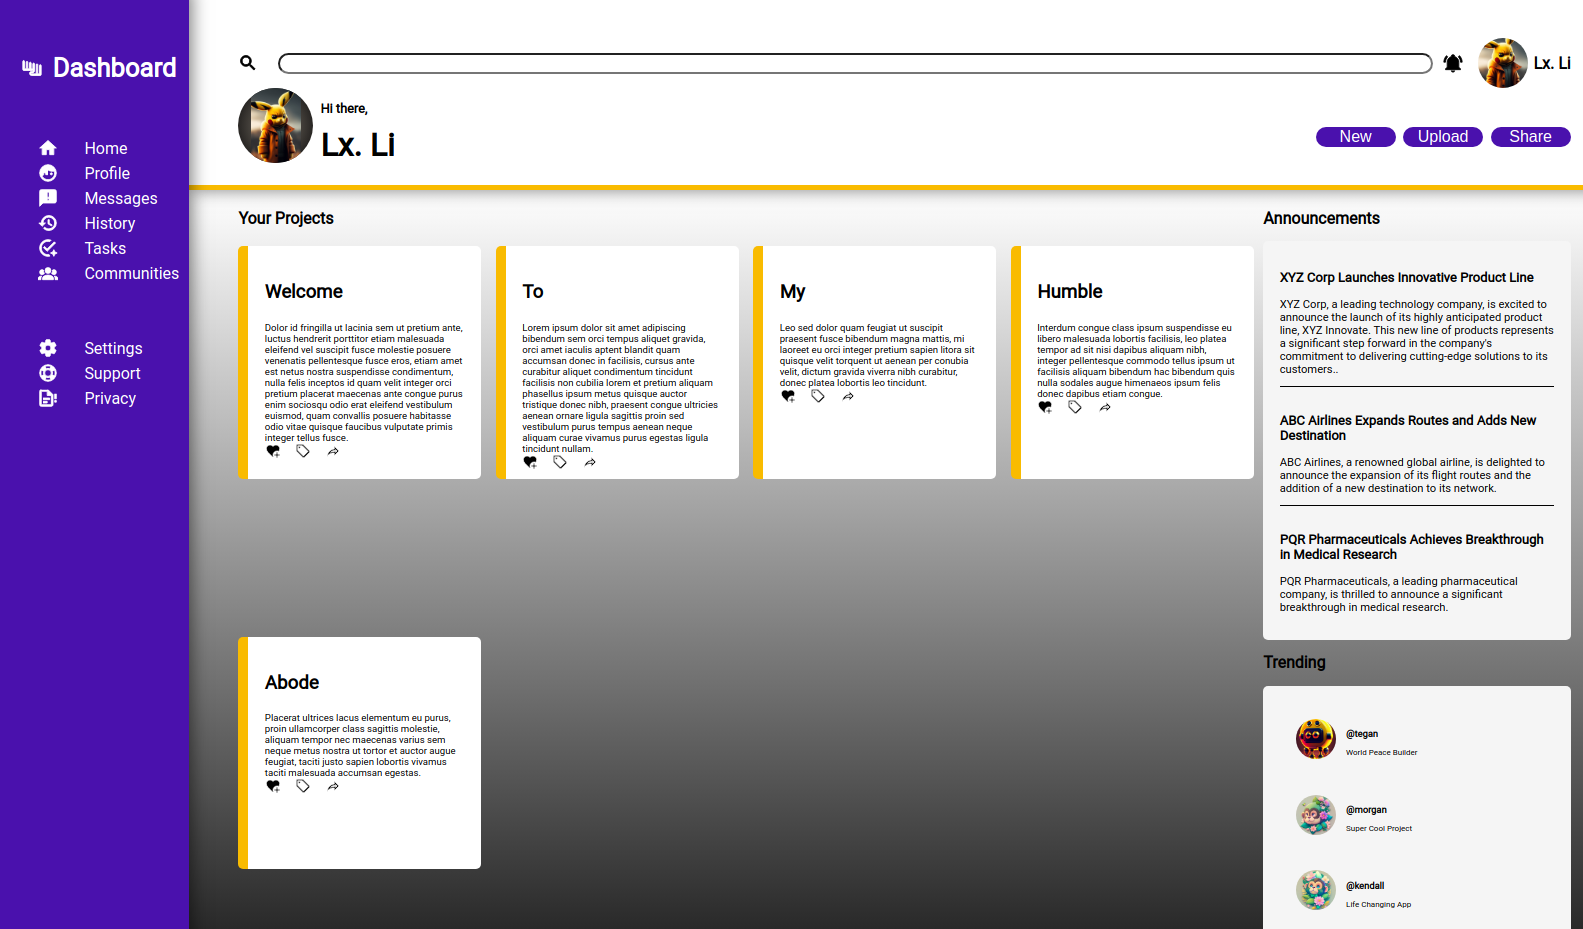
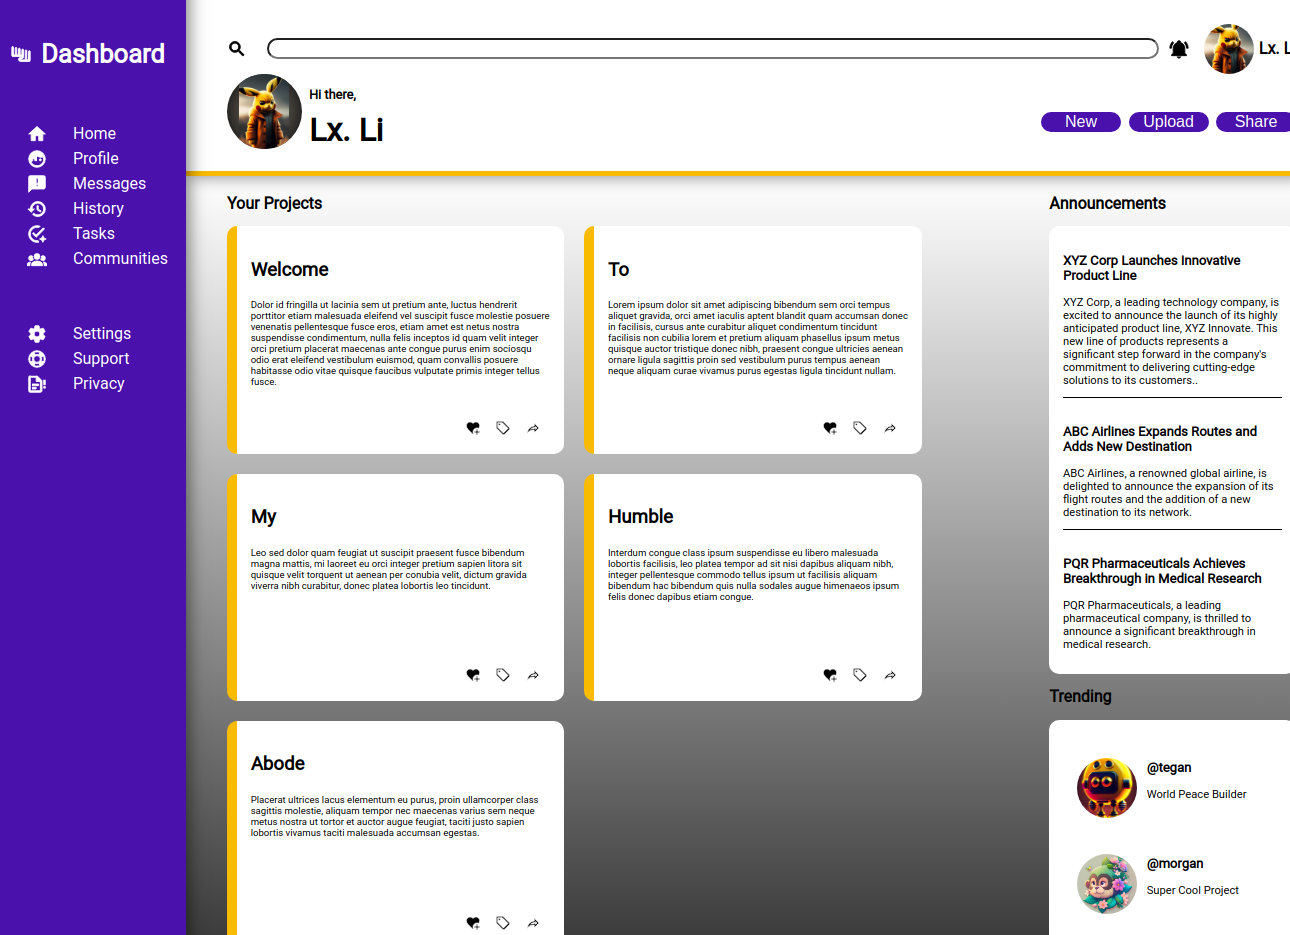
Alignment cleaning

diff --git a/index.html b/index.html
@@ -53,40 +53,52 @@
 <div class="main">
     <div class="projects">
         <h2>Your Projects</h2>
-        <div class="card">
-            <h3>Welcome</h3>
-            <p>Dolor id fringilla ut lacinia sem ut pretium ante, luctus hendrerit porttitor etiam malesuada eleifend vel suscipit fusce molestie posuere venenatis pellentesque fusce eros, etiam amet est netus nostra suspendisse condimentum, nulla felis inceptos id quam velit integer orci pretium placerat maecenas ante congue purus enim sociosqu odio erat eleifend vestibulum euismod, quam convallis posuere habitasse odio vitae quisque faucibus vulputate primis integer tellus fusce.</p>
-            <svg xmlns="http://www.w3.org/2000/svg" viewBox="0 0 24 24"><title>heart-plus</title><path d="M12 18C12 19 12.25 19.92 12.67 20.74L12 21.35L10.55 20.03C5.4 15.36 2 12.27 2 8.5C2 5.41 4.42 3 7.5 3C9.24 3 10.91 3.81 12 5.08C13.09 3.81 14.76 3 16.5 3C19.58 3 22 5.41 22 8.5C22 9.93 21.5 11.26 20.62 12.61C19.83 12.23 18.94 12 18 12C14.69 12 12 14.69 12 18M19 14H17V17H14V19H17V22H19V19H22V17H19V14Z" /></svg>
-            <svg xmlns="http://www.w3.org/2000/svg" viewBox="0 0 24 24"><title>tag-outline</title><path d="M21.41 11.58L12.41 2.58A2 2 0 0 0 11 2H4A2 2 0 0 0 2 4V11A2 2 0 0 0 2.59 12.42L11.59 21.42A2 2 0 0 0 13 22A2 2 0 0 0 14.41 21.41L21.41 14.41A2 2 0 0 0 22 13A2 2 0 0 0 21.41 11.58M13 20L4 11V4H11L20 13M6.5 5A1.5 1.5 0 1 1 5 6.5A1.5 1.5 0 0 1 6.5 5Z" /></svg>
-            <svg xmlns="http://www.w3.org/2000/svg" viewBox="0 0 24 24"><title>share-outline</title><path d="M14,5V9C7,10 4,15 3,20C5.5,16.5 9,14.9 14,14.9V19L21,12L14,5M16,9.83L18.17,12L16,14.17V12.9H14C11.93,12.9 10.07,13.28 8.34,13.85C9.74,12.46 11.54,11.37 14.28,11L16,10.73V9.83Z" /></svg>
-        </div>
-        <div class="card">
-            <h3>To</h3>
-            <p><p>Lorem ipsum dolor sit amet adipiscing bibendum sem orci tempus aliquet gravida, orci amet iaculis aptent blandit quam accumsan donec in facilisis, cursus ante curabitur aliquet condimentum tincidunt facilisis non cubilia lorem et pretium aliquam phasellus ipsum metus quisque auctor tristique donec nibh, praesent congue ultricies aenean ornare ligula sagittis proin sed vestibulum purus tempus aenean neque aliquam curae vivamus purus egestas ligula tincidunt nullam.</p>
-        </p>
-        <svg xmlns="http://www.w3.org/2000/svg" viewBox="0 0 24 24"><title>heart-plus</title><path d="M12 18C12 19 12.25 19.92 12.67 20.74L12 21.35L10.55 20.03C5.4 15.36 2 12.27 2 8.5C2 5.41 4.42 3 7.5 3C9.24 3 10.91 3.81 12 5.08C13.09 3.81 14.76 3 16.5 3C19.58 3 22 5.41 22 8.5C22 9.93 21.5 11.26 20.62 12.61C19.83 12.23 18.94 12 18 12C14.69 12 12 14.69 12 18M19 14H17V17H14V19H17V22H19V19H22V17H19V14Z" /></svg>
-        <svg xmlns="http://www.w3.org/2000/svg" viewBox="0 0 24 24"><title>tag-outline</title><path d="M21.41 11.58L12.41 2.58A2 2 0 0 0 11 2H4A2 2 0 0 0 2 4V11A2 2 0 0 0 2.59 12.42L11.59 21.42A2 2 0 0 0 13 22A2 2 0 0 0 14.41 21.41L21.41 14.41A2 2 0 0 0 22 13A2 2 0 0 0 21.41 11.58M13 20L4 11V4H11L20 13M6.5 5A1.5 1.5 0 1 1 5 6.5A1.5 1.5 0 0 1 6.5 5Z" /></svg>
-        <svg xmlns="http://www.w3.org/2000/svg" viewBox="0 0 24 24"><title>share-outline</title><path d="M14,5V9C7,10 4,15 3,20C5.5,16.5 9,14.9 14,14.9V19L21,12L14,5M16,9.83L18.17,12L16,14.17V12.9H14C11.93,12.9 10.07,13.28 8.34,13.85C9.74,12.46 11.54,11.37 14.28,11L16,10.73V9.83Z" /></svg>        </div>
-        <div class="card">
-            <h3>My</h3>
-            <p><p>Leo sed dolor quam feugiat ut suscipit praesent fusce bibendum magna mattis, mi laoreet eu orci integer pretium sapien litora sit quisque velit torquent ut aenean per conubia velit, dictum gravida viverra nibh curabitur, donec platea lobortis leo tincidunt.</p>
-        </p> <svg xmlns="http://www.w3.org/2000/svg" viewBox="0 0 24 24"><title>heart-plus</title><path d="M12 18C12 19 12.25 19.92 12.67 20.74L12 21.35L10.55 20.03C5.4 15.36 2 12.27 2 8.5C2 5.41 4.42 3 7.5 3C9.24 3 10.91 3.81 12 5.08C13.09 3.81 14.76 3 16.5 3C19.58 3 22 5.41 22 8.5C22 9.93 21.5 11.26 20.62 12.61C19.83 12.23 18.94 12 18 12C14.69 12 12 14.69 12 18M19 14H17V17H14V19H17V22H19V19H22V17H19V14Z" /></svg>
-            <svg xmlns="http://www.w3.org/2000/svg" viewBox="0 0 24 24"><title>tag-outline</title><path d="M21.41 11.58L12.41 2.58A2 2 0 0 0 11 2H4A2 2 0 0 0 2 4V11A2 2 0 0 0 2.59 12.42L11.59 21.42A2 2 0 0 0 13 22A2 2 0 0 0 14.41 21.41L21.41 14.41A2 2 0 0 0 22 13A2 2 0 0 0 21.41 11.58M13 20L4 11V4H11L20 13M6.5 5A1.5 1.5 0 1 1 5 6.5A1.5 1.5 0 0 1 6.5 5Z" /></svg>
-            <svg xmlns="http://www.w3.org/2000/svg" viewBox="0 0 24 24"><title>share-outline</title><path d="M14,5V9C7,10 4,15 3,20C5.5,16.5 9,14.9 14,14.9V19L21,12L14,5M16,9.83L18.17,12L16,14.17V12.9H14C11.93,12.9 10.07,13.28 8.34,13.85C9.74,12.46 11.54,11.37 14.28,11L16,10.73V9.83Z" /></svg>
-        </div>
-        <div class="card">
-            <h3>Humble</h3>
-            <p><p>Interdum congue class ipsum suspendisse eu libero malesuada lobortis facilisis, leo platea tempor ad sit nisi dapibus aliquam nibh, integer pellentesque commodo tellus ipsum ut facilisis aliquam bibendum hac bibendum quis nulla sodales augue himenaeos ipsum felis donec dapibus etiam congue.</p>
-        </p> <svg xmlns="http://www.w3.org/2000/svg" viewBox="0 0 24 24"><title>heart-plus</title><path d="M12 18C12 19 12.25 19.92 12.67 20.74L12 21.35L10.55 20.03C5.4 15.36 2 12.27 2 8.5C2 5.41 4.42 3 7.5 3C9.24 3 10.91 3.81 12 5.08C13.09 3.81 14.76 3 16.5 3C19.58 3 22 5.41 22 8.5C22 9.93 21.5 11.26 20.62 12.61C19.83 12.23 18.94 12 18 12C14.69 12 12 14.69 12 18M19 14H17V17H14V19H17V22H19V19H22V17H19V14Z" /></svg>
-            <svg xmlns="http://www.w3.org/2000/svg" viewBox="0 0 24 24"><title>tag-outline</title><path d="M21.41 11.58L12.41 2.58A2 2 0 0 0 11 2H4A2 2 0 0 0 2 4V11A2 2 0 0 0 2.59 12.42L11.59 21.42A2 2 0 0 0 13 22A2 2 0 0 0 14.41 21.41L21.41 14.41A2 2 0 0 0 22 13A2 2 0 0 0 21.41 11.58M13 20L4 11V4H11L20 13M6.5 5A1.5 1.5 0 1 1 5 6.5A1.5 1.5 0 0 1 6.5 5Z" /></svg>
-            <svg xmlns="http://www.w3.org/2000/svg" viewBox="0 0 24 24"><title>share-outline</title><path d="M14,5V9C7,10 4,15 3,20C5.5,16.5 9,14.9 14,14.9V19L21,12L14,5M16,9.83L18.17,12L16,14.17V12.9H14C11.93,12.9 10.07,13.28 8.34,13.85C9.74,12.46 11.54,11.37 14.28,11L16,10.73V9.83Z" /></svg>
-        </div>
-        <div class="card">
-            <h3>Abode</h3>
-            <p><p>Placerat ultrices lacus elementum eu purus, proin ullamcorper class sagittis molestie, aliquam tempor nec maecenas varius sem neque metus nostra ut tortor et auctor augue feugiat, taciti justo sapien lobortis vivamus taciti malesuada accumsan egestas.</p>
-        </p> <svg xmlns="http://www.w3.org/2000/svg" viewBox="0 0 24 24"><title>heart-plus</title><path d="M12 18C12 19 12.25 19.92 12.67 20.74L12 21.35L10.55 20.03C5.4 15.36 2 12.27 2 8.5C2 5.41 4.42 3 7.5 3C9.24 3 10.91 3.81 12 5.08C13.09 3.81 14.76 3 16.5 3C19.58 3 22 5.41 22 8.5C22 9.93 21.5 11.26 20.62 12.61C19.83 12.23 18.94 12 18 12C14.69 12 12 14.69 12 18M19 14H17V17H14V19H17V22H19V19H22V17H19V14Z" /></svg>
-            <svg xmlns="http://www.w3.org/2000/svg" viewBox="0 0 24 24"><title>tag-outline</title><path d="M21.41 11.58L12.41 2.58A2 2 0 0 0 11 2H4A2 2 0 0 0 2 4V11A2 2 0 0 0 2.59 12.42L11.59 21.42A2 2 0 0 0 13 22A2 2 0 0 0 14.41 21.41L21.41 14.41A2 2 0 0 0 22 13A2 2 0 0 0 21.41 11.58M13 20L4 11V4H11L20 13M6.5 5A1.5 1.5 0 1 1 5 6.5A1.5 1.5 0 0 1 6.5 5Z" /></svg>
-            <svg xmlns="http://www.w3.org/2000/svg" viewBox="0 0 24 24"><title>share-outline</title><path d="M14,5V9C7,10 4,15 3,20C5.5,16.5 9,14.9 14,14.9V19L21,12L14,5M16,9.83L18.17,12L16,14.17V12.9H14C11.93,12.9 10.07,13.28 8.34,13.85C9.74,12.46 11.54,11.37 14.28,11L16,10.73V9.83Z" /></svg>
+        <div class="card-container">
+            <div class="card">
+                <h3>Welcome</h3>
+                <p><p>Dolor id fringilla ut lacinia sem ut pretium ante, luctus hendrerit porttitor etiam malesuada eleifend vel suscipit fusce molestie posuere venenatis pellentesque fusce eros, etiam amet est netus nostra suspendisse condimentum, nulla felis inceptos id quam velit integer orci pretium placerat maecenas ante congue purus enim sociosqu odio erat eleifend vestibulum euismod, quam convallis posuere habitasse odio vitae quisque faucibus vulputate primis integer tellus fusce.</p></p>
+                <div class="links">
+                    <svg xmlns="http://www.w3.org/2000/svg" viewBox="0 0 24 24"><title>heart-plus</title><path d="M12 18C12 19 12.25 19.92 12.67 20.74L12 21.35L10.55 20.03C5.4 15.36 2 12.27 2 8.5C2 5.41 4.42 3 7.5 3C9.24 3 10.91 3.81 12 5.08C13.09 3.81 14.76 3 16.5 3C19.58 3 22 5.41 22 8.5C22 9.93 21.5 11.26 20.62 12.61C19.83 12.23 18.94 12 18 12C14.69 12 12 14.69 12 18M19 14H17V17H14V19H17V22H19V19H22V17H19V14Z" /></svg>
+                    <svg xmlns="http://www.w3.org/2000/svg" viewBox="0 0 24 24"><title>tag-outline</title><path d="M21.41 11.58L12.41 2.58A2 2 0 0 0 11 2H4A2 2 0 0 0 2 4V11A2 2 0 0 0 2.59 12.42L11.59 21.42A2 2 0 0 0 13 22A2 2 0 0 0 14.41 21.41L21.41 14.41A2 2 0 0 0 22 13A2 2 0 0 0 21.41 11.58M13 20L4 11V4H11L20 13M6.5 5A1.5 1.5 0 1 1 5 6.5A1.5 1.5 0 0 1 6.5 5Z" /></svg>
+                    <svg xmlns="http://www.w3.org/2000/svg" viewBox="0 0 24 24"><title>share-outline</title><path d="M14,5V9C7,10 4,15 3,20C5.5,16.5 9,14.9 14,14.9V19L21,12L14,5M16,9.83L18.17,12L16,14.17V12.9H14C11.93,12.9 10.07,13.28 8.34,13.85C9.74,12.46 11.54,11.37 14.28,11L16,10.73V9.83Z" /></svg>
+                </div>
+            </div>
+            <div class="card">
+                <h3>To</h3>
+                <p><p>Lorem ipsum dolor sit amet adipiscing bibendum sem orci tempus aliquet gravida, orci amet iaculis aptent blandit quam accumsan donec in facilisis, cursus ante curabitur aliquet condimentum tincidunt facilisis non cubilia lorem et pretium aliquam phasellus ipsum metus quisque auctor tristique donec nibh, praesent congue ultricies aenean ornare ligula sagittis proin sed vestibulum purus tempus aenean neque aliquam curae vivamus purus egestas ligula tincidunt nullam.</p>
+            </p>
+            <div class="links">
+                <svg xmlns="http://www.w3.org/2000/svg" viewBox="0 0 24 24"><title>heart-plus</title><path d="M12 18C12 19 12.25 19.92 12.67 20.74L12 21.35L10.55 20.03C5.4 15.36 2 12.27 2 8.5C2 5.41 4.42 3 7.5 3C9.24 3 10.91 3.81 12 5.08C13.09 3.81 14.76 3 16.5 3C19.58 3 22 5.41 22 8.5C22 9.93 21.5 11.26 20.62 12.61C19.83 12.23 18.94 12 18 12C14.69 12 12 14.69 12 18M19 14H17V17H14V19H17V22H19V19H22V17H19V14Z" /></svg>
+                <svg xmlns="http://www.w3.org/2000/svg" viewBox="0 0 24 24"><title>tag-outline</title><path d="M21.41 11.58L12.41 2.58A2 2 0 0 0 11 2H4A2 2 0 0 0 2 4V11A2 2 0 0 0 2.59 12.42L11.59 21.42A2 2 0 0 0 13 22A2 2 0 0 0 14.41 21.41L21.41 14.41A2 2 0 0 0 22 13A2 2 0 0 0 21.41 11.58M13 20L4 11V4H11L20 13M6.5 5A1.5 1.5 0 1 1 5 6.5A1.5 1.5 0 0 1 6.5 5Z" /></svg>
+                <svg xmlns="http://www.w3.org/2000/svg" viewBox="0 0 24 24"><title>share-outline</title><path d="M14,5V9C7,10 4,15 3,20C5.5,16.5 9,14.9 14,14.9V19L21,12L14,5M16,9.83L18.17,12L16,14.17V12.9H14C11.93,12.9 10.07,13.28 8.34,13.85C9.74,12.46 11.54,11.37 14.28,11L16,10.73V9.83Z" /></svg>
+            </div>       </div>
+            <div class="card">
+                <h3>My</h3>
+                <p><p>Leo sed dolor quam feugiat ut suscipit praesent fusce bibendum magna mattis, mi laoreet eu orci integer pretium sapien litora sit quisque velit torquent ut aenean per conubia velit, dictum gravida viverra nibh curabitur, donec platea lobortis leo tincidunt.</p>
+            </p>                 <div class="links">
+                <svg xmlns="http://www.w3.org/2000/svg" viewBox="0 0 24 24"><title>heart-plus</title><path d="M12 18C12 19 12.25 19.92 12.67 20.74L12 21.35L10.55 20.03C5.4 15.36 2 12.27 2 8.5C2 5.41 4.42 3 7.5 3C9.24 3 10.91 3.81 12 5.08C13.09 3.81 14.76 3 16.5 3C19.58 3 22 5.41 22 8.5C22 9.93 21.5 11.26 20.62 12.61C19.83 12.23 18.94 12 18 12C14.69 12 12 14.69 12 18M19 14H17V17H14V19H17V22H19V19H22V17H19V14Z" /></svg>
+                <svg xmlns="http://www.w3.org/2000/svg" viewBox="0 0 24 24"><title>tag-outline</title><path d="M21.41 11.58L12.41 2.58A2 2 0 0 0 11 2H4A2 2 0 0 0 2 4V11A2 2 0 0 0 2.59 12.42L11.59 21.42A2 2 0 0 0 13 22A2 2 0 0 0 14.41 21.41L21.41 14.41A2 2 0 0 0 22 13A2 2 0 0 0 21.41 11.58M13 20L4 11V4H11L20 13M6.5 5A1.5 1.5 0 1 1 5 6.5A1.5 1.5 0 0 1 6.5 5Z" /></svg>
+                <svg xmlns="http://www.w3.org/2000/svg" viewBox="0 0 24 24"><title>share-outline</title><path d="M14,5V9C7,10 4,15 3,20C5.5,16.5 9,14.9 14,14.9V19L21,12L14,5M16,9.83L18.17,12L16,14.17V12.9H14C11.93,12.9 10.07,13.28 8.34,13.85C9.74,12.46 11.54,11.37 14.28,11L16,10.73V9.83Z" /></svg>
+            </div>
+            </div>
+            <div class="card">
+                <h3>Humble</h3>
+                <p><p>Interdum congue class ipsum suspendisse eu libero malesuada lobortis facilisis, leo platea tempor ad sit nisi dapibus aliquam nibh, integer pellentesque commodo tellus ipsum ut facilisis aliquam bibendum hac bibendum quis nulla sodales augue himenaeos ipsum felis donec dapibus etiam congue.</p>
+            </p>                 <div class="links">
+                <svg xmlns="http://www.w3.org/2000/svg" viewBox="0 0 24 24"><title>heart-plus</title><path d="M12 18C12 19 12.25 19.92 12.67 20.74L12 21.35L10.55 20.03C5.4 15.36 2 12.27 2 8.5C2 5.41 4.42 3 7.5 3C9.24 3 10.91 3.81 12 5.08C13.09 3.81 14.76 3 16.5 3C19.58 3 22 5.41 22 8.5C22 9.93 21.5 11.26 20.62 12.61C19.83 12.23 18.94 12 18 12C14.69 12 12 14.69 12 18M19 14H17V17H14V19H17V22H19V19H22V17H19V14Z" /></svg>
+                <svg xmlns="http://www.w3.org/2000/svg" viewBox="0 0 24 24"><title>tag-outline</title><path d="M21.41 11.58L12.41 2.58A2 2 0 0 0 11 2H4A2 2 0 0 0 2 4V11A2 2 0 0 0 2.59 12.42L11.59 21.42A2 2 0 0 0 13 22A2 2 0 0 0 14.41 21.41L21.41 14.41A2 2 0 0 0 22 13A2 2 0 0 0 21.41 11.58M13 20L4 11V4H11L20 13M6.5 5A1.5 1.5 0 1 1 5 6.5A1.5 1.5 0 0 1 6.5 5Z" /></svg>
+                <svg xmlns="http://www.w3.org/2000/svg" viewBox="0 0 24 24"><title>share-outline</title><path d="M14,5V9C7,10 4,15 3,20C5.5,16.5 9,14.9 14,14.9V19L21,12L14,5M16,9.83L18.17,12L16,14.17V12.9H14C11.93,12.9 10.07,13.28 8.34,13.85C9.74,12.46 11.54,11.37 14.28,11L16,10.73V9.83Z" /></svg>
+            </div>
+            </div>
+            <div class="card">
+                <h3>Abode</h3>
+                <p><p>Placerat ultrices lacus elementum eu purus, proin ullamcorper class sagittis molestie, aliquam tempor nec maecenas varius sem neque metus nostra ut tortor et auctor augue feugiat, taciti justo sapien lobortis vivamus taciti malesuada accumsan egestas.</p>
+            </p>                 <div class="links">
+                <svg xmlns="http://www.w3.org/2000/svg" viewBox="0 0 24 24"><title>heart-plus</title><path d="M12 18C12 19 12.25 19.92 12.67 20.74L12 21.35L10.55 20.03C5.4 15.36 2 12.27 2 8.5C2 5.41 4.42 3 7.5 3C9.24 3 10.91 3.81 12 5.08C13.09 3.81 14.76 3 16.5 3C19.58 3 22 5.41 22 8.5C22 9.93 21.5 11.26 20.62 12.61C19.83 12.23 18.94 12 18 12C14.69 12 12 14.69 12 18M19 14H17V17H14V19H17V22H19V19H22V17H19V14Z" /></svg>
+                <svg xmlns="http://www.w3.org/2000/svg" viewBox="0 0 24 24"><title>tag-outline</title><path d="M21.41 11.58L12.41 2.58A2 2 0 0 0 11 2H4A2 2 0 0 0 2 4V11A2 2 0 0 0 2.59 12.42L11.59 21.42A2 2 0 0 0 13 22A2 2 0 0 0 14.41 21.41L21.41 14.41A2 2 0 0 0 22 13A2 2 0 0 0 21.41 11.58M13 20L4 11V4H11L20 13M6.5 5A1.5 1.5 0 1 1 5 6.5A1.5 1.5 0 0 1 6.5 5Z" /></svg>
+                <svg xmlns="http://www.w3.org/2000/svg" viewBox="0 0 24 24"><title>share-outline</title><path d="M14,5V9C7,10 4,15 3,20C5.5,16.5 9,14.9 14,14.9V19L21,12L14,5M16,9.83L18.17,12L16,14.17V12.9H14C11.93,12.9 10.07,13.28 8.34,13.85C9.74,12.46 11.54,11.37 14.28,11L16,10.73V9.83Z" /></svg>
+            </div>
+            </div>
         </div>
     </div>
     <div class="announcements">

diff --git a/styles.css b/styles.css
@@ -231,27 +231,33 @@ grid-template-rows: min-content 1fr;
     padding-top:5px;    
 }
 .main > .projects{
-    display: grid;
     grid-area: projects;
-    grid-template-columns:repeat(auto-fit, minmax(210px,1fr));
-    grid-template-rows: min-content auto;
-    gap: 5px;
-    padding-top: -20px;
 }
-.main > .projects > h2{
+
+.projects > .card-container{
+    display: grid;
+    grid-template-columns:repeat(auto-fill, minmax(320px,max-content));
+    gap: 20px;
+    padding-top: -20px;
+    margin-right: 20px;
+
+}
+.main > .projects h2{
     grid-column: 1/ -1;
     text-align: start;
 }
 .main > .announcements{
-    display: grid;
-    grid-area: announcements;
-    grid-template-columns: 1fr;
-    font-size: 0.7rem;
+       grid-area: announcements;
+
 }
 .block{
-    background-color: whitesmoke;
+ 
+    display: grid;
+    grid-template-columns: 1fr;
+    font-size: 0.7rem;
+    background-color: white;
     padding: 1vw;
-    border-radius: 5px;
+    border-radius: 10px;
 }
 
 .block > p {
@@ -264,11 +270,11 @@ grid-template-rows: min-content 1fr;
 .main > .trending{
     display: grid;
     grid-area: trending;    grid-template-columns: 1fr;
-    font-size: 0.5rem;
+    font-size: 0.8rem;
 }
 .people{
     display: grid;
-    grid-template-columns: 50px 1fr;
+    grid-template-columns: 70px 1fr;
     grid-template-rows: 1fr 1fr;
     padding-left: 1vw;
     padding-top: 1vw;
@@ -276,22 +282,24 @@ grid-template-rows: min-content 1fr;
 .people p {
 }
 .trending img {
-    width:40px;
-    height: 40px;
+    width:60px;
+    height: 60px;
     border-radius: 50%;
     overflow: hidden;
     grid-row: span 2;
     object-fit:cover;
+    margin-top:15%;
 }
 .card{
     height:200px;
-    width:200px; 
+    width:300px; 
     background-color: white;
-    border-radius: 5px;
+    border-radius: 10px;
     border-left: 10px solid var(--highlightcolor);
     padding: 1vw;
     transition: transform 0.5s;
-    
+    display: grid;
+    grid-template-rows: min-content max-content min-content;
 }
 
 .card p{
@@ -304,8 +312,9 @@ grid-template-rows: min-content 1fr;
     /* stroke: black; */
     fill: black;
 }
-
-
+.card .links{
+    place-self: end;
+}
 .card:hover{
     transform: rotate(1deg) scale(1.2);
 }
